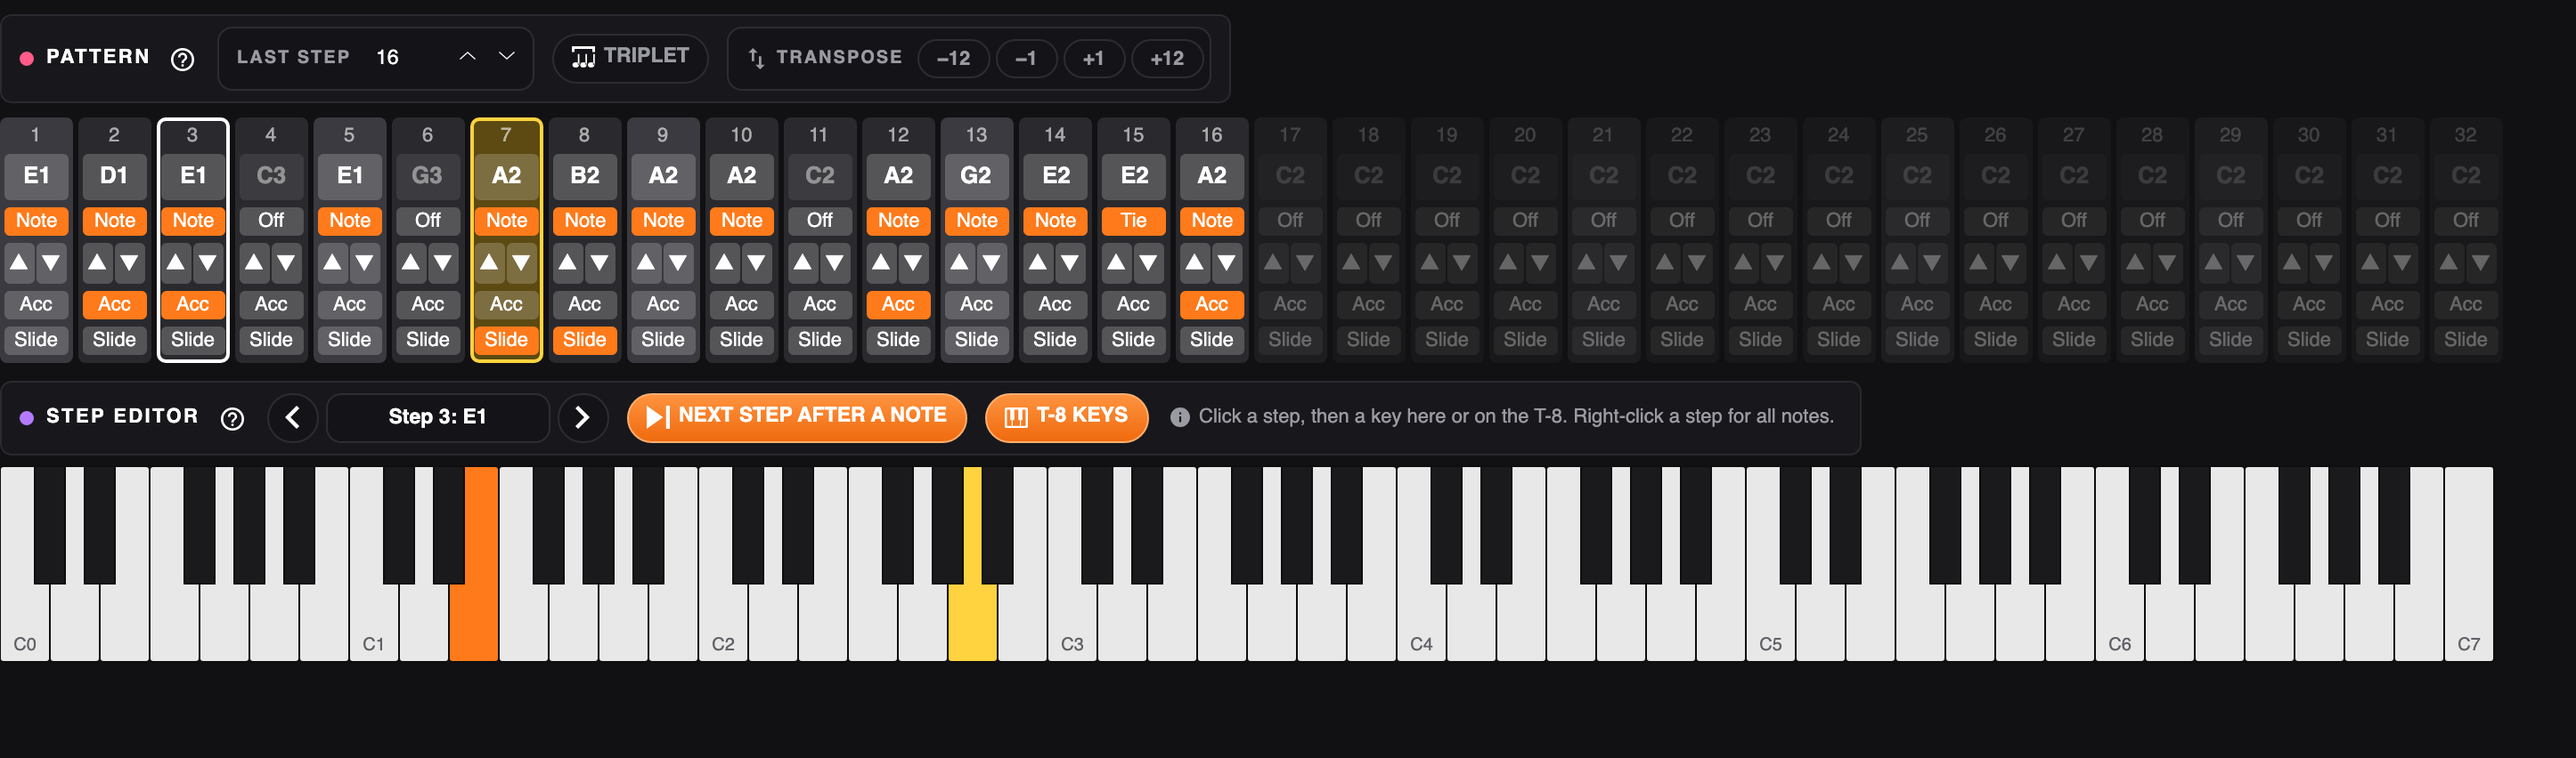
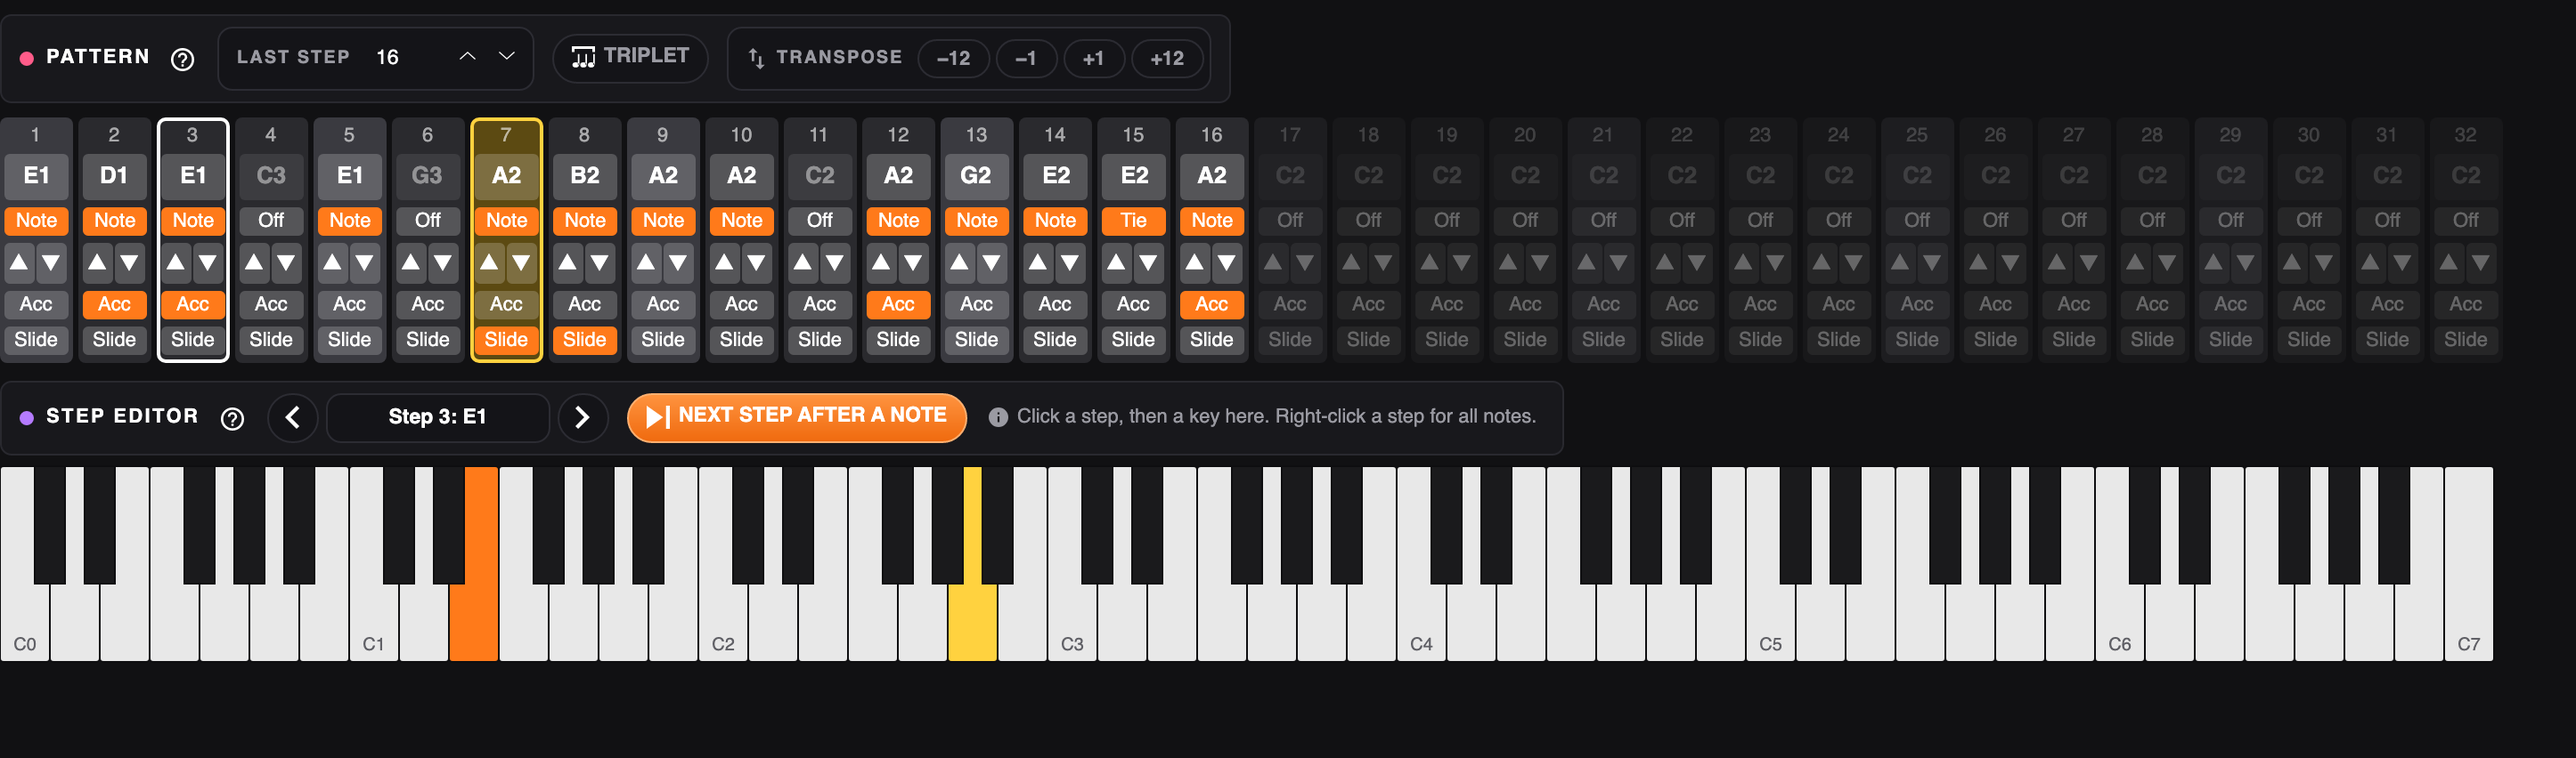
Version 1.0.8

Changed region(s): [[0.3734, 0.5188, 0.7158, 0.6103]]

diff --git a/tests/T8.Editor.Tests/MainWindowViewModelTests.cs b/tests/T8.Editor.Tests/MainWindowViewModelTests.cs
@@ -21,7 +21,7 @@ public class MainWindowViewModelTests : IDisposable
     {
         Assert.Null(_vm.FolderPath);
         Assert.False(_vm.IsDirty);
-        Assert.Equal("Roland Aira Compact T-8 Editor - v1.0.7", _vm.Title);
+        Assert.Equal("Roland Aira Compact T-8 Editor - v1.0.8", _vm.Title);
         Assert.Equal("Untitled", _vm.LibraryLabel);
         _vm.FolderPath = "/Volumes/T-8/BACKUP/"; // a trailing slash still gives the folder's name
         Assert.Equal("BACKUP", _vm.LibraryLabel);
@@ -47,7 +47,7 @@ public class MainWindowViewModelTests : IDisposable
         Assert.Equal(12, _vm.Bass.Length);
         Assert.Equal(32, _vm.Rhythm.Length);
         Assert.Contains("Loaded 64 patterns", _vm.Status);
-        Assert.Equal("Roland Aira Compact T-8 Editor - v1.0.7", _vm.Title);
+        Assert.Equal("Roland Aira Compact T-8 Editor - v1.0.8", _vm.Title);
         Assert.Equal("BACKUP", _vm.LibraryLabel);
     }
 
@@ -111,7 +111,7 @@ public class MainWindowViewModelTests : IDisposable
     {
         _vm.Rhythm[RhythmTrack.BD].Cells[0].On = true;
         Assert.True(_vm.IsDirty);
-        Assert.EndsWith("v1.0.7", _vm.Title); // the title ends with the version; unsaved shows on the Patterns card
+        Assert.EndsWith("v1.0.8", _vm.Title); // the title ends with the version; unsaved shows on the Patterns card
         Assert.EndsWith("unsaved changes", _vm.LibraryLabel);
 
         _vm.Bass.Steps[0].Accent = true;
@@ -366,8 +366,8 @@ public class MainWindowViewModelTests : IDisposable
     [Fact]
     public void The_app_is_version_1_0_1_by_christos()
     {
-        Assert.Equal("v1.0.7", T8.Editor.AppInfo.DisplayVersion);
-        Assert.StartsWith("1.0.7", T8.Editor.AppInfo.FullVersion);
+        Assert.Equal("v1.0.8", T8.Editor.AppInfo.DisplayVersion);
+        Assert.StartsWith("1.0.8", T8.Editor.AppInfo.FullVersion);
         Assert.Equal("Christos Christodoulidis", T8.Editor.AppInfo.Author);
     }
 

diff --git a/tests/T8.Editor.Tests/MainWindowTests.cs b/tests/T8.Editor.Tests/MainWindowTests.cs
@@ -30,14 +30,14 @@ public class MainWindowTests
     {
         var (window, vm) = Show();
 
-        Assert.Equal("Roland Aira Compact T-8 Editor - v1.0.7", window.Title);
+        Assert.Equal("Roland Aira Compact T-8 Editor - v1.0.8", window.Title);
         Assert.Equal("BACKUP", window.FindControl<TextBlock>("LibraryText")!.Text);
         Assert.False(window.FindControl<Avalonia.Controls.Shapes.Ellipse>("UnsavedDot")!.IsVisible);
         vm.Rhythm.Tracks[0].Cells[1].On = !vm.Rhythm.Tracks[0].Cells[1].On;
         Assert.True(vm.IsDirty);
         Assert.True(window.FindControl<Avalonia.Controls.Shapes.Ellipse>("UnsavedDot")!.IsVisible);
         Assert.Equal("BACKUP · unsaved changes", window.FindControl<TextBlock>("LibraryText")!.Text);
-        Assert.Equal("Roland Aira Compact T-8 Editor - v1.0.7", window.Title);
+        Assert.Equal("Roland Aira Compact T-8 Editor - v1.0.8", window.Title);
         Assert.Contains("Loaded 64 patterns", window.FindControl<TextBlock>("StatusText")!.Text);
         // CY has no sound on the T-8, so its row is hidden.
         Assert.Equal(7, window.GetVisualDescendants().OfType<RhythmEditorView>().Single()
@@ -550,7 +550,7 @@ public class AboutWindowTests
         var texts = about.GetVisualDescendants().OfType<TextBlock>().Select(t => t.Text ?? "").ToList();
 
         Assert.Contains("Christos Christodoulidis", texts);
-        Assert.Contains(texts, t => t.StartsWith("Version 1.0.7"));
+        Assert.Contains(texts, t => t.StartsWith("Version 1.0.8"));
         Assert.DoesNotContain(texts, t => t.Contains("Avalonia", StringComparison.OrdinalIgnoreCase));
         about.Close();
     }

diff --git a/README.md b/README.md
@@ -102,12 +102,12 @@ The downloads are self-contained, so there is nothing else to install:
 
 | Computer | Download |
 |---|---|
-| Mac with Apple Silicon (M1 and later) | `T8Editor-1.0.7-osx-arm64.zip` |
-| Mac with Intel | `T8Editor-1.0.7-osx-x64.zip` |
-| Windows PC (x64) | `T8Editor-1.0.7-win-x64.zip` |
-| Windows on ARM | `T8Editor-1.0.7-win-arm64.zip` |
-| Linux x64 | `T8Editor-1.0.7-linux-x64.tar.gz` |
-| Linux ARM64 | `T8Editor-1.0.7-linux-arm64.tar.gz` |
+| Mac with Apple Silicon (M1 and later) | `T8Editor-1.0.8-osx-arm64.zip` |
+| Mac with Intel | `T8Editor-1.0.8-osx-x64.zip` |
+| Windows PC (x64) | `T8Editor-1.0.8-win-x64.zip` |
+| Windows on ARM | `T8Editor-1.0.8-win-arm64.zip` |
+| Linux x64 | `T8Editor-1.0.8-linux-x64.tar.gz` |
+| Linux ARM64 | `T8Editor-1.0.8-linux-arm64.tar.gz` |
 
 - **macOS:** unzip and move *Roland Aira Compact T-8 Editor* to Applications, then open it. The app is signed with
   a Developer ID and notarized by Apple, so it opens without warnings.
@@ -181,7 +181,7 @@ The screenshots at the top show the whole window on each tab. From top to bottom
 - **Rhythm**, **Bass** and **Song** tabs (a rounded selector with icons; the open tab is a raised orange pill): the editors,
   their generators, and songs.
 - **Status bar:** what just happened on the left, the MIDI channels in use on the right, and an orange chip such as
-  **v1.0.7 available** when a newer version is out (see [Updates](#updates)).
+  **v1.0.8 available** when a newer version is out (see [Updates](#updates)).
 
 ### Help
 
@@ -527,7 +527,7 @@ dotnet run --project src/T8.Cli -- export BACKUP 1 1 pattern.mid
 ```sh
 scripts/publish.sh                 # all six packages into artifacts/
 scripts/publish.sh osx-arm64       # just one: osx-arm64, osx-x64, win-arm64, win-x64, linux-arm64, linux-x64
-VERSION=1.0.7 scripts/publish.sh   # another version (default: <Version> in src/T8.Editor/T8.Editor.csproj)
+VERSION=1.0.8 scripts/publish.sh   # another version (default: <Version> in src/T8.Editor/T8.Editor.csproj)
 ```
 
 Packages are self-contained, so no .NET install is needed to run them. On macOS the app is signed ad hoc

diff --git a/scripts/release-notes-1.0.8.md b/scripts/release-notes-1.0.8.md
@@ -1,0 +1,23 @@
+## What's new in 1.0.8
+
+**Bass**
+- Removed **T-8 KEYS**. The T-8 does not send the notes you play on its own keys, so that control could not enter a step. Click a step, then a key on the on-screen keyboard.
+
+Self-contained builds: nothing else to install. Download the one for your computer:
+
+| Computer | File |
+|---|---|
+| Mac with Apple Silicon (M1 and later) | `T8Editor-<version>-osx-arm64.zip` |
+| Mac with Intel | `T8Editor-<version>-osx-x64.zip` |
+| Windows PC (x64, most PCs) | `T8Editor-<version>-win-x64.zip` |
+| Windows on ARM | `T8Editor-<version>-win-arm64.zip` |
+| Linux x64 | `T8Editor-<version>-linux-x64.tar.gz` |
+| Linux ARM64 (e.g. Raspberry Pi 4/5 with a 64-bit OS) | `T8Editor-<version>-linux-arm64.tar.gz` |
+
+- **macOS:** unzip and move *Roland Aira Compact T-8 Editor* to Applications, then open it. The app is signed with
+  a Developer ID and notarized by Apple, so it opens without warnings.
+- **Windows:** unzip and run `T8Editor.exe`. If SmartScreen warns, choose **More info → Run anyway**.
+- **Linux:** `tar -xzf T8Editor-<version>-linux-x64.tar.gz` and run `./T8Editor` in the folder. Your user needs access
+  to the MIDI devices (usually the `audio` group).
+
+See the [user guide](https://github.com/wcmCloud/Roland-Aira-Compact-T8#readme) for how to use the editor.
